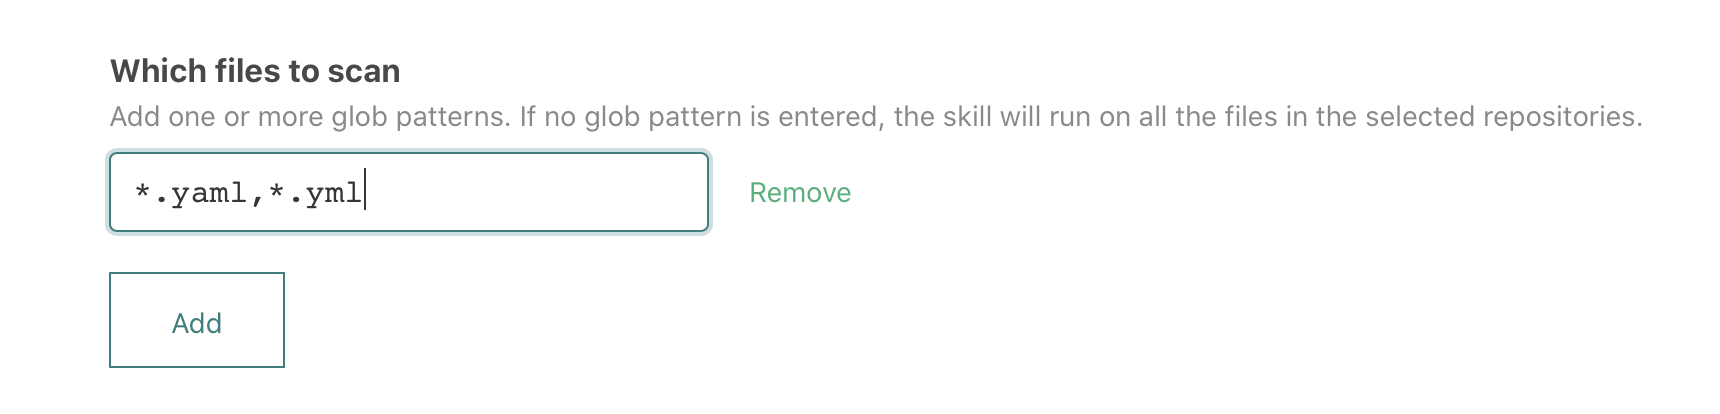
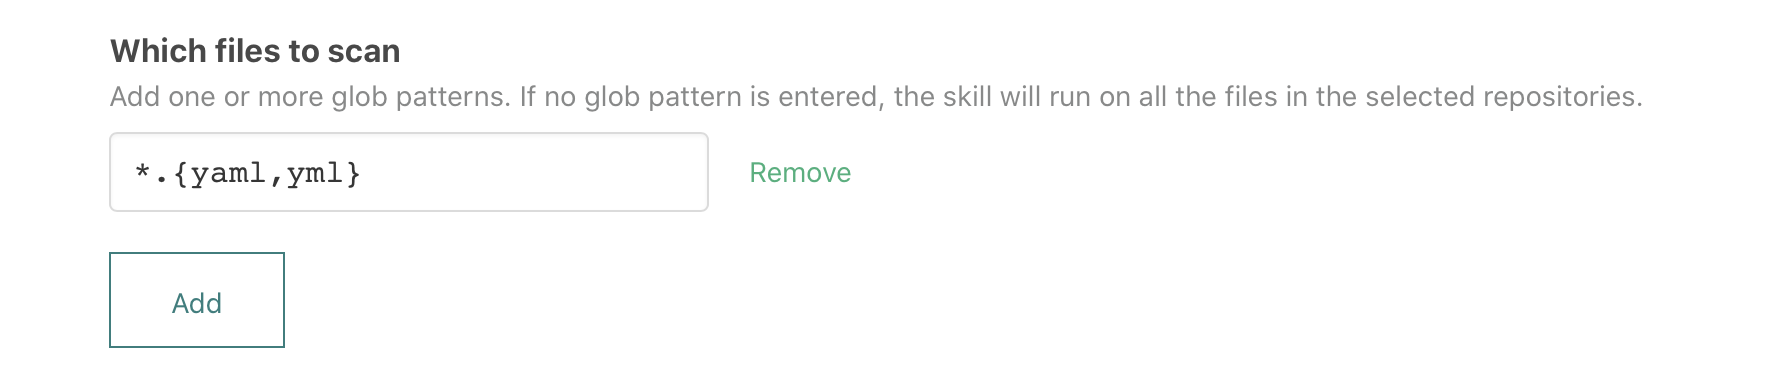
Fix glob typo

diff --git a/events/ScanOnPush.ts b/events/ScanOnPush.ts
@@ -58,7 +58,7 @@ export const handler: EventHandler<ScanOnPushSubscription, ScanConfiguration> = 
 
     configurations.forEach(c => {
         secretDefinitions.push(...(c.parameters?.pattern?.map(p => ({ pattern: p, description: undefined, ignore: [] })) || []));
-        globs.push(...(c.parameters?.globs || []));
+        globs.push(...(c.parameters?.glob || []));
         whitelist.push(...(c.parameters?.whitelist || []));
     });
 
@@ -67,7 +67,7 @@ export const handler: EventHandler<ScanOnPushSubscription, ScanConfiguration> = 
     }
 
     const result = await scanProject(project,
-        { secretDefinitions: _.uniqBy(secretDefinitions, "pattern"), whitelist: _.uniq(whitelist), globs: _.uniq(globs) });
+        { secretDefinitions: _.uniqBy(secretDefinitions, "pattern"), whitelist: _.uniq(whitelist), glob: _.uniq(globs) });
 
     const api = gitHub(credential.token, repo.org.provider.apiUrl);
     if (result.secrets.length > 0) {

diff --git a/events/scan.ts b/events/scan.ts
@@ -25,7 +25,7 @@ export const DefaultGlobPatterns = [
 ];
 
 export interface ScanConfiguration {
-    globs: string[];
+    glob: string[];
     secretDefinitions: SecretDefinition[];
     whitelist: string[];
     pattern?: string[];
@@ -44,7 +44,7 @@ export interface Secret {
 
 export async function scanProject(project: Project, cfg: ScanConfiguration): Promise<{ fileCount: number; secrets: Secret[] }> {
     const secrets = [];
-    const files = await globFiles(project, cfg?.globs || ["**"]);
+    const files = await globFiles(project, cfg?.glob || "**", { braceExpansion: true });
     for (const file of files) {
         const content = (await fs.readFile(project.path(file))).toString();
         const exposedSecrets = await scanFileContent(file, content, cfg);

diff --git a/README.md b/README.md
@@ -24,7 +24,7 @@ The **GitHub** integration must be configured in order to use this skill. At lea
     For example, to only run on YAML files with `.yaml` or `.yml` extensions at any depth in the repository, 
     you would provide this glob pattern:
     
-    `*.yaml,*.yml`
+    `*.{yaml,yml}`
     
     ![File glob](docs/images/file-pattern.png)
     
